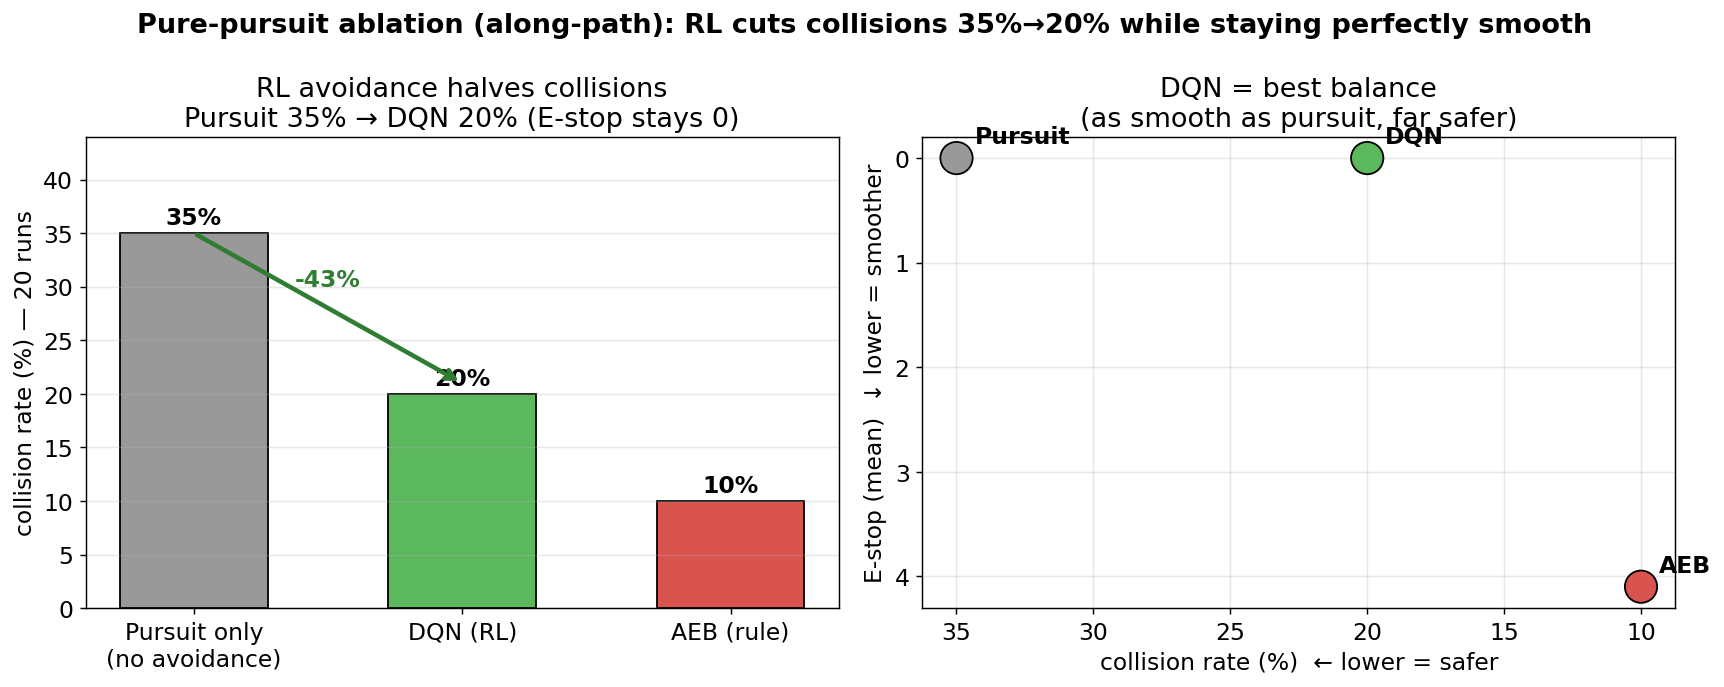
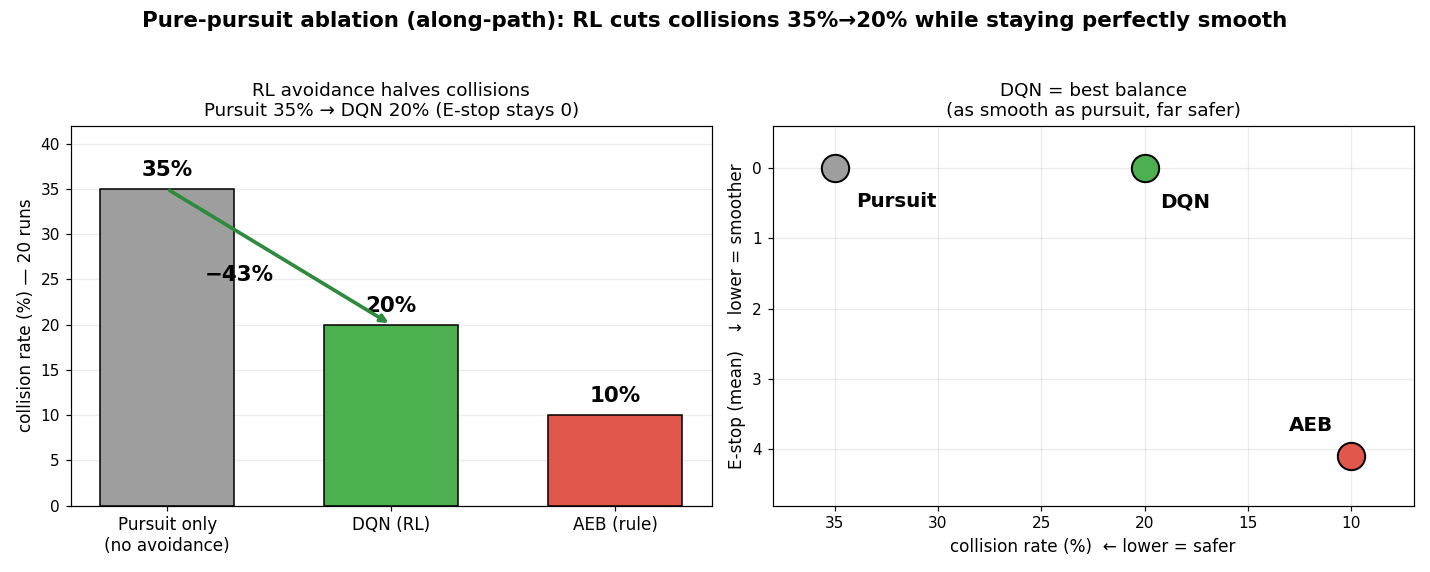
fig: 학습곡선 주석 오른쪽 상단 이동 + ablation -43% 검정·산점도 라벨 안쪽 정리

diff --git a/figures/regen_figs.py b/figures/regen_figs.py
@@ -1,0 +1,86 @@
+#!/usr/bin/env python3
+"""dqn_score_curve.png / ablation_pursuit_vs_dqn_vs_aeb.png 재생성 (주석 위치 개선)."""
+import numpy as np
+import matplotlib.pyplot as plt
+import matplotlib
+matplotlib.rcParams['axes.unicode_minus'] = False
+FIG = "/home/sejong/isaac_aeb/figures"
+
+# ───────────────────────── 1) DQN 학습 곡선 ─────────────────────────
+d = np.load("/home/sejong/grid_nav/evaluations.npz")
+ts = d["timesteps"] / 1000.0          # ×1000 스텝
+res = d["results"]
+mean = res.mean(1); std = res.std(1)
+
+fig, ax = plt.subplots(figsize=(8, 4.2), dpi=110)
+ax.plot(ts, mean, color="#2e8b3d", lw=1.6, label="eval reward (mean of 20 ep)")
+ax.fill_between(ts, mean - std, mean + std, color="#2e8b3d", alpha=0.20, label="±1 std")
+
+bx, by = 510, 799.0                    # best checkpoint
+ax.plot(bx, by, "o", ms=12, color="#d62728", mec="k", mew=1.2, zorder=5)
+# 주석 → 오른쪽 상단 빈 공간, 곡선과 안 겹치게 (axes 좌표 고정)
+ax.annotate(
+    "★ Best model (deployed)\n799 reward ≈ 93% success\n@ 510k steps",
+    xy=(bx, by), xycoords="data",
+    xytext=(0.97, 0.92), textcoords="axes fraction",
+    ha="right", va="top", fontsize=10,
+    bbox=dict(boxstyle="round,pad=0.4", fc="#fff7e6", ec="#e0a000", lw=1.2),
+    arrowprops=dict(arrowstyle="->", color="#d62728", lw=1.4,
+                    connectionstyle="arc3,rad=-0.15"),
+)
+ax.set_title("DQN learning curve (grid nav) — best checkpoint at peak used for deployment",
+             fontsize=11)
+ax.set_xlabel("training steps (×1000)"); ax.set_ylabel("evaluation reward")
+ax.grid(alpha=0.25); ax.legend(loc="lower left", framealpha=0.9)
+ax.set_xlim(ts.min(), ts.max())
+fig.tight_layout(); fig.savefig(f"{FIG}/dqn_score_curve.png", dpi=110); plt.close(fig)
+print("saved dqn_score_curve.png")
+
+# ───────────────── 2) Pursuit / DQN / AEB ablation ─────────────────
+labels = ["Pursuit only\n(no avoidance)", "DQN (RL)", "AEB (rule)"]
+coll   = [35, 20, 10]
+estop  = [0.0, 0.0, 4.1]
+colors = ["#9e9e9e", "#4caf50", "#e2574c"]
+
+fig, (axL, axR) = plt.subplots(1, 2, figsize=(13, 5.2), dpi=110)
+
+# 좌: 막대 + pursuit→DQN 화살표
+bars = axL.bar(range(3), coll, color=colors, edgecolor="k", lw=1.0, width=0.6, zorder=2)
+for i, v in enumerate(coll):
+    axL.text(i, v + 1.0, f"{v}%", ha="center", va="bottom",
+             fontsize=14, fontweight="bold", color="k")
+# 화살표 (pursuit top → DQN top)
+axL.annotate("", xy=(1, 20), xytext=(0, 35),
+             arrowprops=dict(arrowstyle="-|>", color="#2e8b3d", lw=2.4))
+# -43% 라벨: 검정색 + 화살표/막대숫자 안 가리게 선 왼쪽 아래 빈 공간
+axL.text(0.32, 25.5, "−43%", ha="center", va="center",
+         fontsize=14, fontweight="bold", color="k")
+axL.set_xticks(range(3)); axL.set_xticklabels(labels, fontsize=11)
+axL.set_ylabel("collision rate (%) — 20 runs", fontsize=11)
+axL.set_ylim(0, 42)
+axL.set_title("RL avoidance halves collisions\nPursuit 35% → DQN 20% (E-stop stays 0)", fontsize=12)
+axL.grid(axis="y", alpha=0.25)
+
+# 우: 산점도 (충돌률 vs E-stop), 라벨 안쪽으로
+pts = {"Pursuit": (35, 0.0, "#9e9e9e"), "DQN": (20, 0.0, "#4caf50"), "AEB": (10, 4.1, "#e2574c")}
+for name, (x, y, c) in pts.items():
+    axR.scatter(x, y, s=320, color=c, edgecolor="k", lw=1.3, zorder=3)
+# 라벨 오프셋 (display points) — 경계선 안쪽 방향
+axR.annotate("Pursuit", (35, 0.0), textcoords="offset points", xytext=(14, -16),
+             ha="left", va="top", fontsize=13, fontweight="bold")
+axR.annotate("DQN", (20, 0.0), textcoords="offset points", xytext=(10, -16),
+             ha="left", va="top", fontsize=13, fontweight="bold")
+axR.annotate("AEB", (10, 4.1), textcoords="offset points", xytext=(-12, 14),
+             ha="right", va="bottom", fontsize=13, fontweight="bold")
+axR.set_xlim(38, 7)                    # 반전: 오른쪽일수록 안전, 여백 확보
+axR.set_ylim(4.8, -0.6)               # 반전: 위일수록 매끄러움, 여백 확보
+axR.set_xlabel("collision rate (%)  ← lower = safer", fontsize=11)
+axR.set_ylabel("E-stop (mean)   ↓ lower = smoother", fontsize=11)
+axR.set_title("DQN = best balance\n(as smooth as pursuit, far safer)", fontsize=12)
+axR.grid(alpha=0.25)
+
+fig.suptitle("Pure-pursuit ablation (along-path): RL cuts collisions 35%→20% while staying perfectly smooth",
+             fontsize=14, fontweight="bold")
+fig.tight_layout(rect=[0, 0, 1, 0.95])
+fig.savefig(f"{FIG}/ablation_pursuit_vs_dqn_vs_aeb.png", dpi=110); plt.close(fig)
+print("saved ablation_pursuit_vs_dqn_vs_aeb.png")